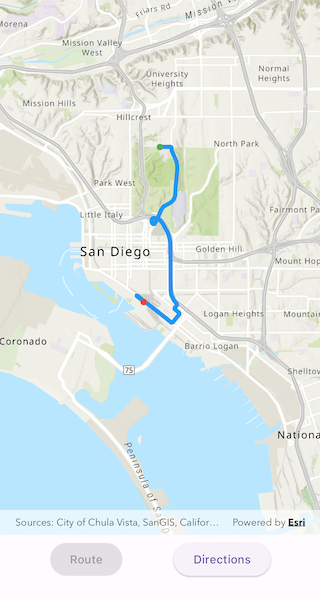
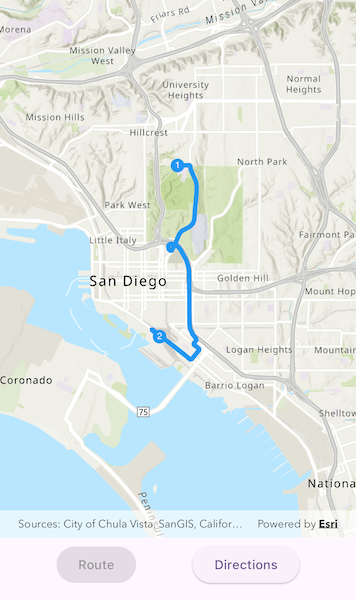
Added numbers on top of the end and start circles

diff --git a/lib/samples/find_route/find_route_sample.dart b/lib/samples/find_route/find_route_sample.dart
@@ -123,10 +123,14 @@ class _FindRouteSampleState extends State<FindRouteSample> {
 
   void initStops() {
     // create symbols to use for the start and end stops of the route.
-    final routeStartSymbol = SimpleMarkerSymbol(
+    final routeStartCircleSymbol = SimpleMarkerSymbol(
         style: SimpleMarkerSymbolStyle.circle, color: Colors.blue, size: 15.0);
-    final routeEndSymbol = SimpleMarkerSymbol(
+    final routeEndCircleSymbol = SimpleMarkerSymbol(
         style: SimpleMarkerSymbolStyle.circle, color: Colors.blue, size: 15.0);
+    final routeStartNumberSymbol =
+        TextSymbol(text: '1', color: Colors.white, size: 10.0);
+    final routeEndNumberSymbol =
+        TextSymbol(text: '2', color: Colors.white, size: 10.0);
 
     // configure pre-defined start and end points for the route.
     final startPoint = ArcGISPoint(
@@ -149,12 +153,12 @@ class _FindRouteSampleState extends State<FindRouteSample> {
     _stops.add(destinationStop);
 
     // add the start and end points to the stops graphics overlay.
-    _stopsGraphicsOverlay.graphics.add(
-      Graphic(geometry: startPoint, symbol: routeStartSymbol),
-    );
-    _stopsGraphicsOverlay.graphics.add(
-      Graphic(geometry: endPoint, symbol: routeEndSymbol),
-    );
+    _stopsGraphicsOverlay.graphics.addAll([
+      Graphic(geometry: startPoint, symbol: routeStartCircleSymbol),
+      Graphic(geometry: endPoint, symbol: routeEndCircleSymbol),
+      Graphic(geometry: startPoint, symbol: routeStartNumberSymbol),
+      Graphic(geometry: endPoint, symbol: routeEndNumberSymbol),
+    ]);
   }
 
   Future<void> initRouteParameters() async {
